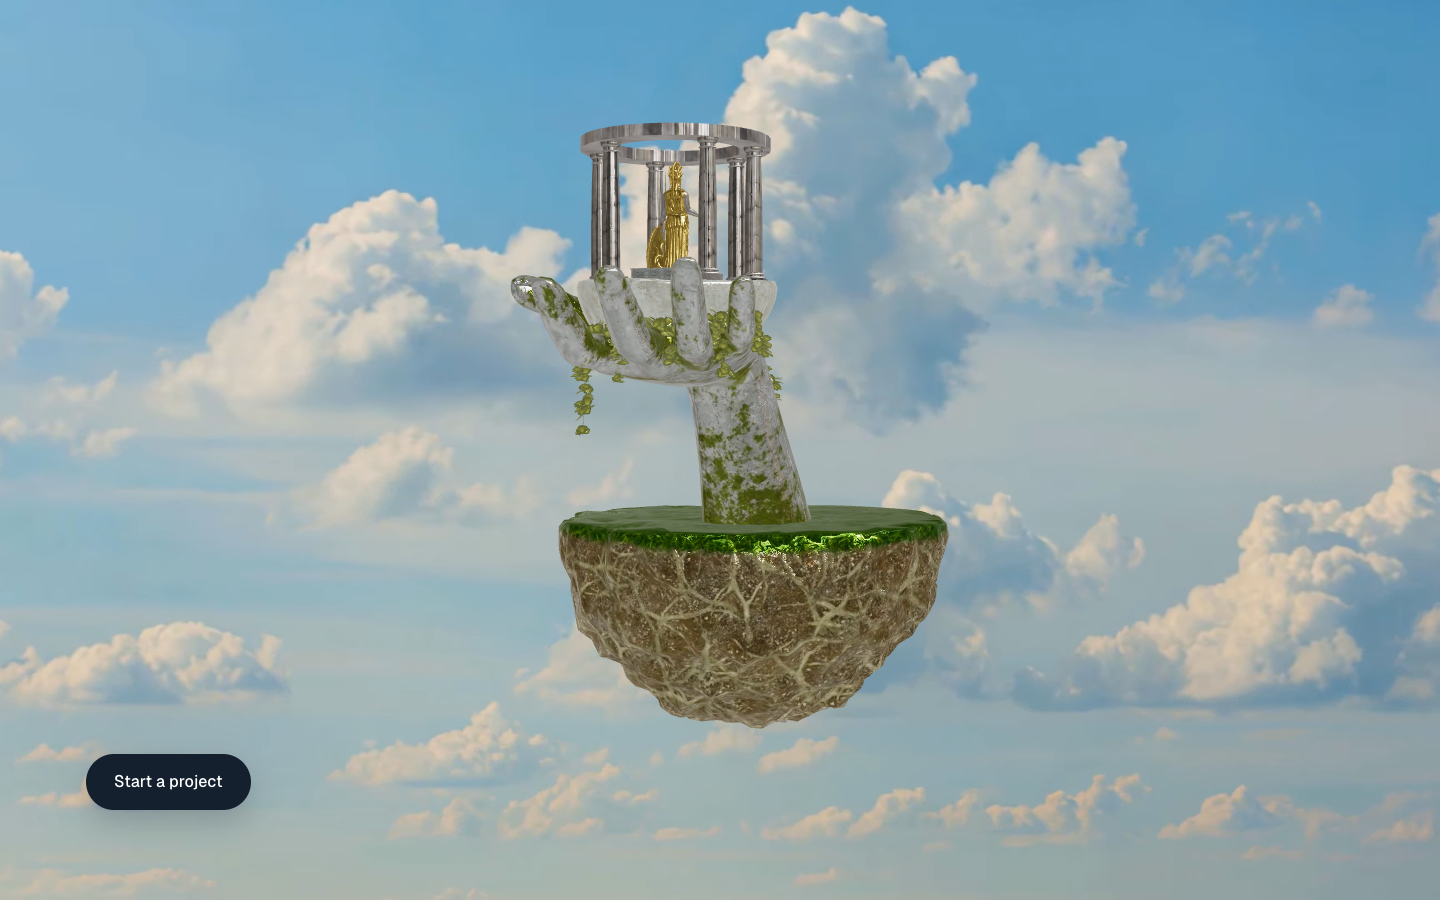
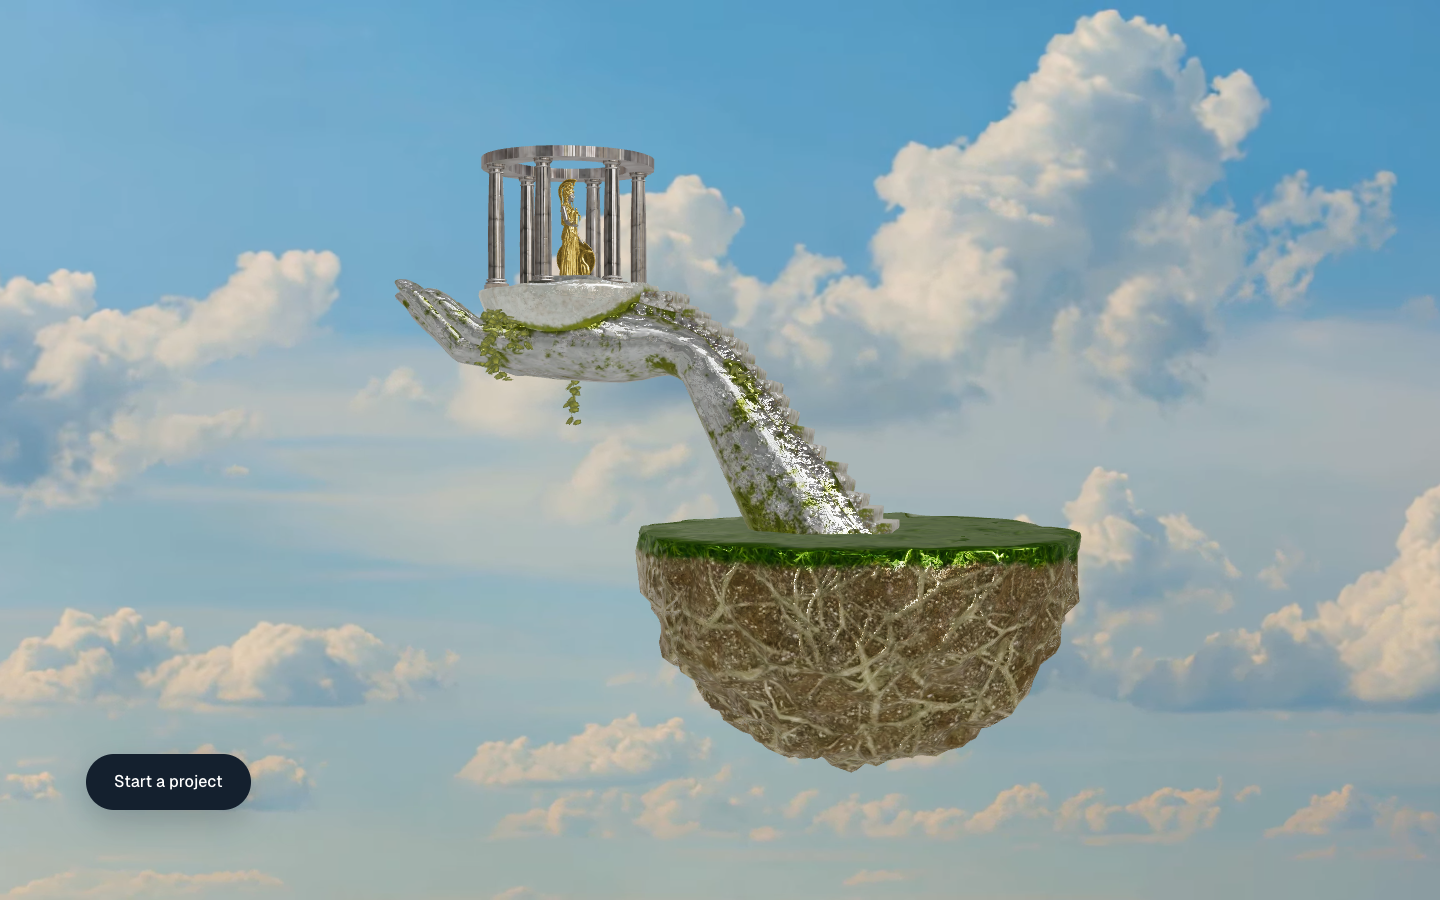
Temple 1.2x, clockwise spin; pillar vanish cut aligned with the dust launch
Claude-Session: https://claude.ai/code/session_01NAdPXLUXCGhh82qBsMYyAh

diff --git a/src/hero/Rebuild.tsx b/src/hero/Rebuild.tsx
@@ -127,7 +127,12 @@ export function Rebuild({ video, screenTexture }: { video: HTMLVideoElement | nu
     const settle = ease.smooth(remap(p, SETTLE.start, SETTLE.end));
     // once fully surfaced the cut goes away entirely; when the pillar vanishes it runs back down from the top
     const unb = ease.smooth(remap(progress.q, Q.vanish[0], Q.vanish[1]));
-    rebuildDissolve.uCut.value = unb > 0 ? 1.15 * (1 - unb) : settle <= 0 ? -1 : settle >= 0.999 ? 1e3 : settle * 1.15;
+    // the cut must sit exactly where the dust is launching: a point at normalised height h leaves when
+    // unb > (1 - (0.85 h)) * spread, so the surviving surface is everything below h = (1 - unb / spread) / 0.85,
+    // converted from the point buffer's height to the dissolve's own height scale
+    const spread = 0.6, sweep = 0.85, maxY = 1.2124, height = COLUMN_TOP + 0.3;
+    const cutForUnbuild = ((1 - unb / spread) / sweep) * (maxY / height);
+    rebuildDissolve.uCut.value = unb > 0 ? Math.max(-0.05, cutForUnbuild) : settle <= 0 ? -1 : settle >= 0.999 ? 1e3 : settle * 1.15;
     g.visible = unb < 0.999;
     const wantShadows = settle > 0 && unb < 0.5;
     if (shadows.current !== wantShadows) {

diff --git a/src/hero/Temple.tsx b/src/hero/Temple.tsx
@@ -27,12 +27,13 @@ export function Temple({ frozen = false }: { frozen?: boolean }) {
     if (!frozen) clock.current += Math.min(dt, 0.05);
     const rise = ease.out(remap(progress.q, Q.hand[0], Q.hand[1]));
     g.visible = rise > 0;
-    g.position.y = THREE.MathUtils.lerp(-4.5, 0, rise);
-    g.rotation.y = -0.35 + Math.sin(clock.current * 0.12) * 0.12;
+    g.position.y = THREE.MathUtils.lerp(-5.2, 0, rise);
+    // clockwise seen from above, steady
+    g.rotation.y = -0.35 - clock.current * 0.16;
   });
 
   return (
-    <group ref={group} visible={false}>
+    <group ref={group} visible={false} scale={1.2}>
       <primitive object={scene} />
     </group>
   );

diff --git a/src/hero/CameraRig.tsx b/src/hero/CameraRig.tsx
@@ -165,8 +165,8 @@ export function CameraRig({ frozen = false }: { frozen?: boolean }) {
       tmpLook.lerp(endLook, out);
       // the hand and temple are taller than the pillar: ease back and up to frame the whole piece as it rises
       const hand = ease.inOut(remap(q, Q.hand[0], Q.hand[1]));
-      const handPos = new THREE.Vector3(0, 1.7, 7.2);
-      const handLook = new THREE.Vector3(0, 1.45, 0);
+      const handPos = new THREE.Vector3(0, 2.0, 8.4);
+      const handLook = new THREE.Vector3(0, 1.72, 0);
       tmpPos.lerp(handPos, hand);
       tmpLook.lerp(handLook, hand);
     }
